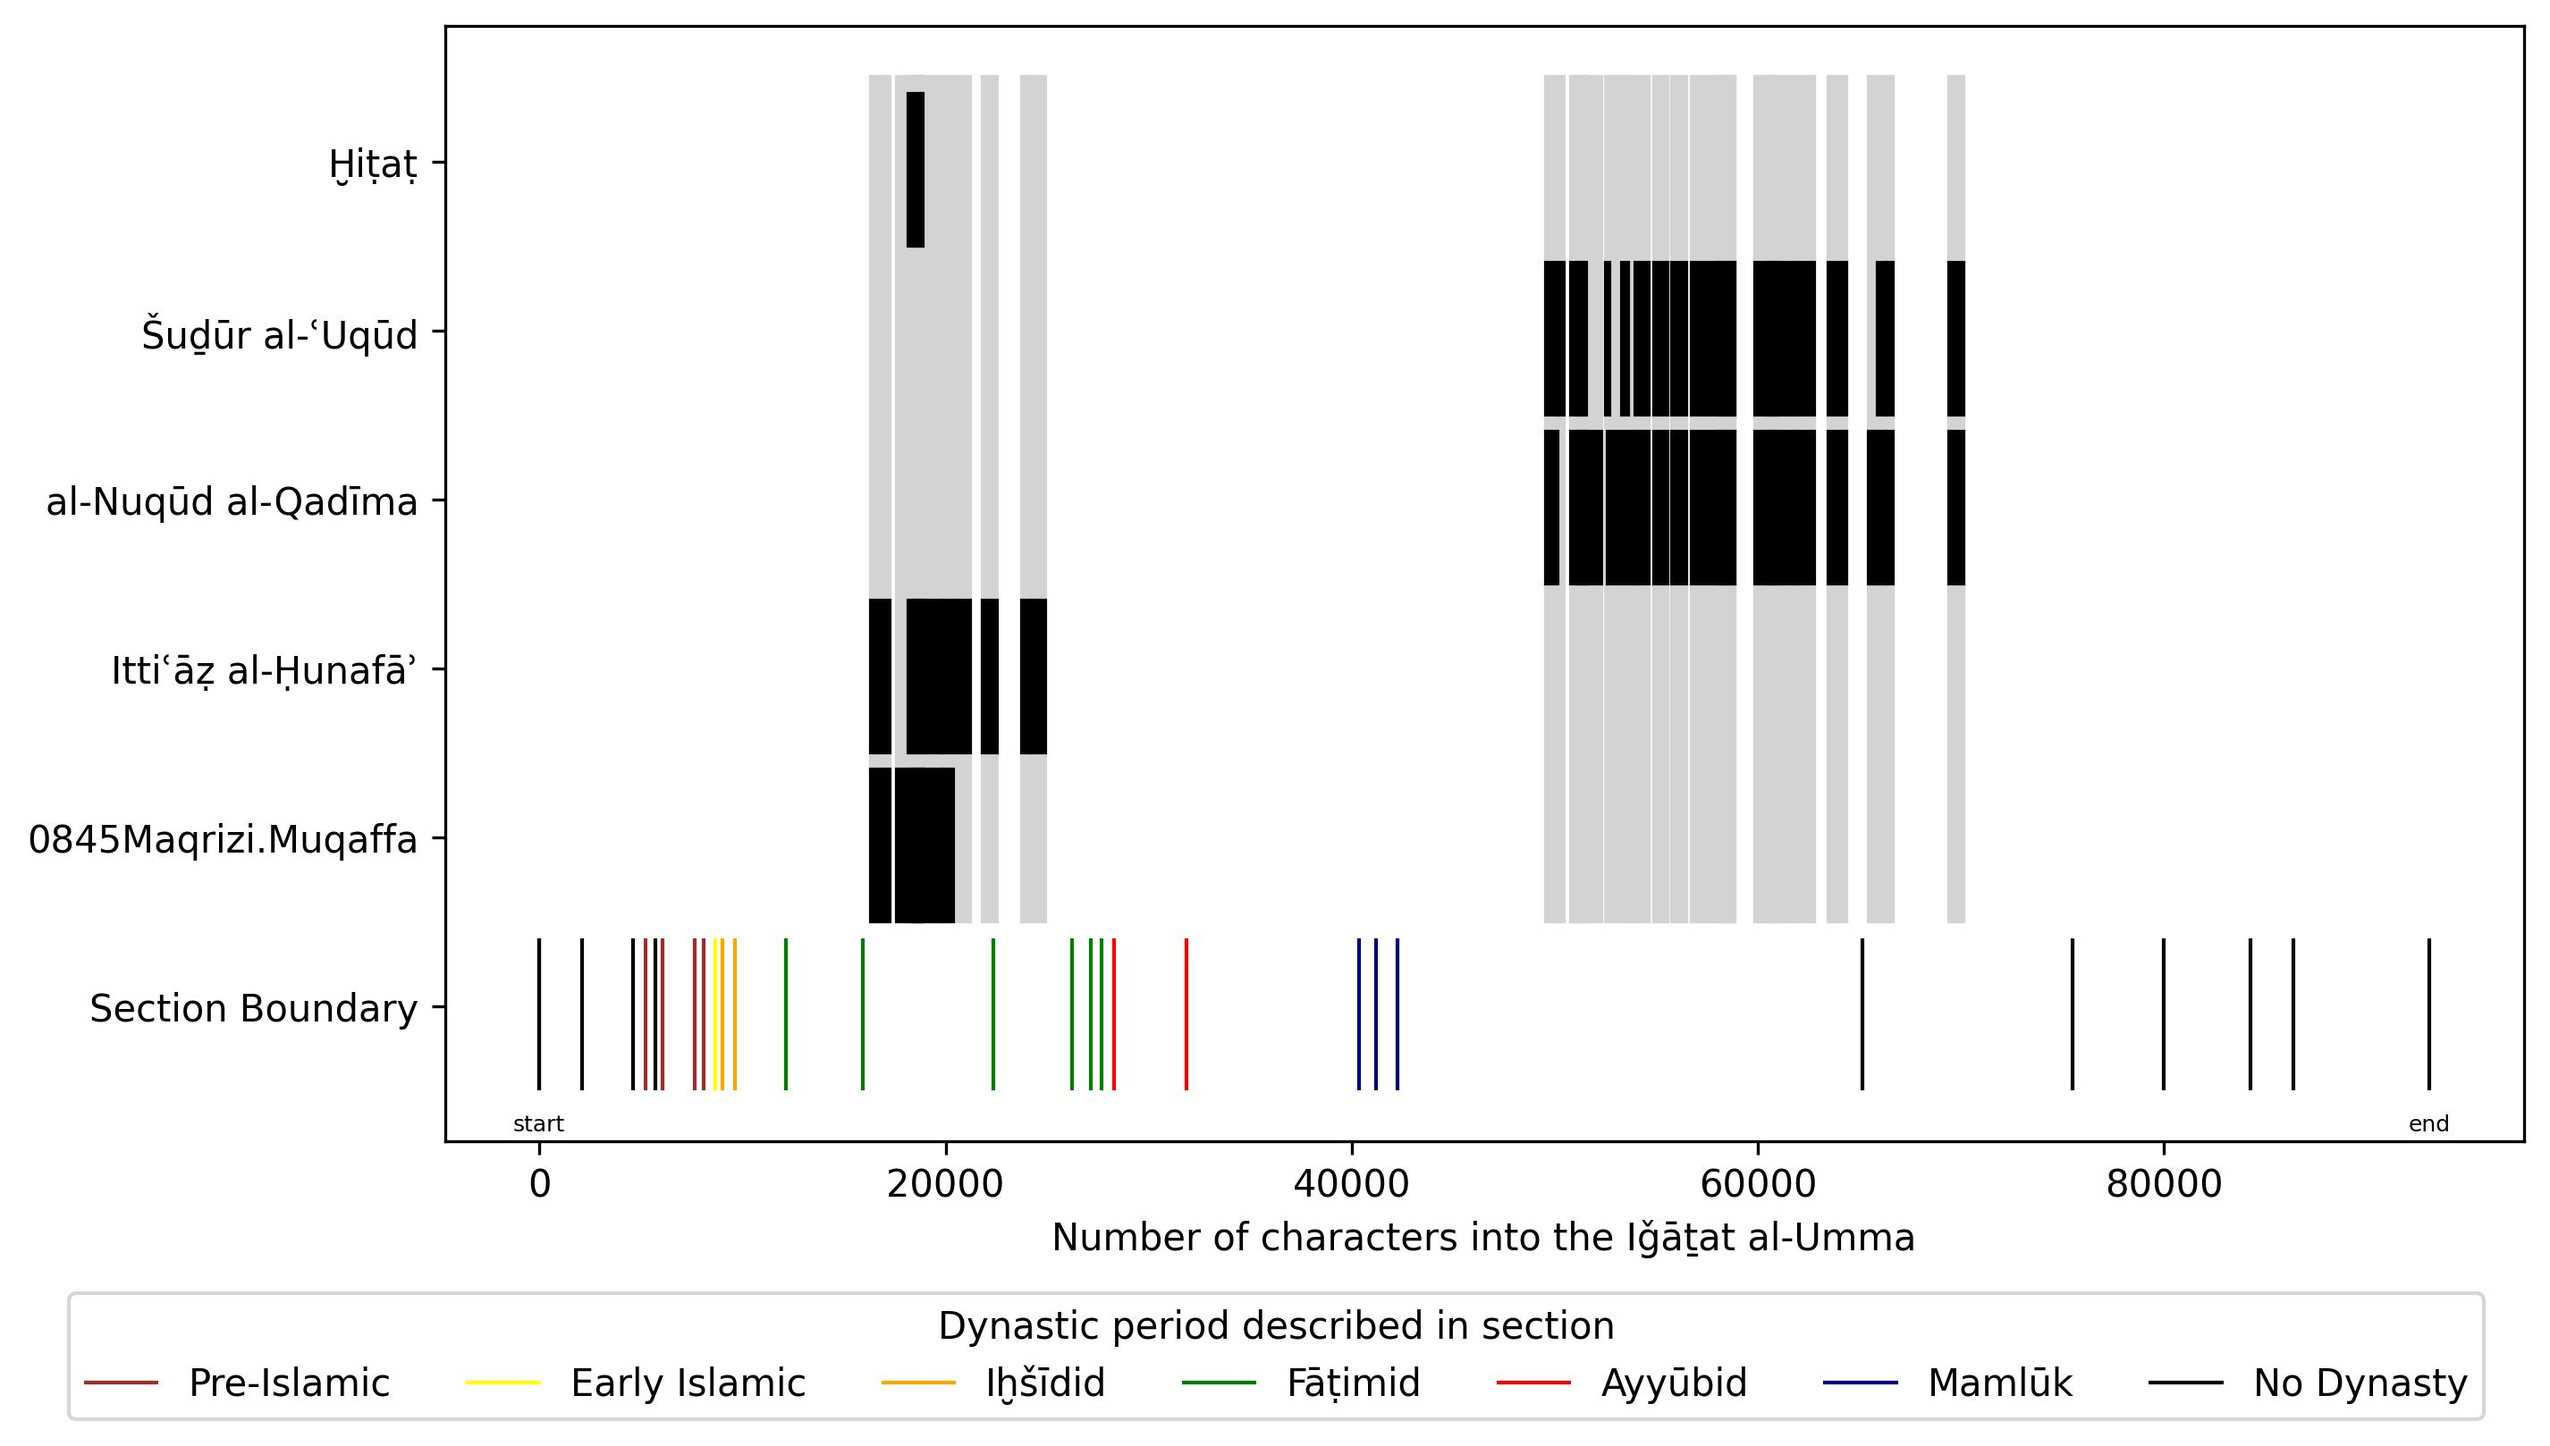
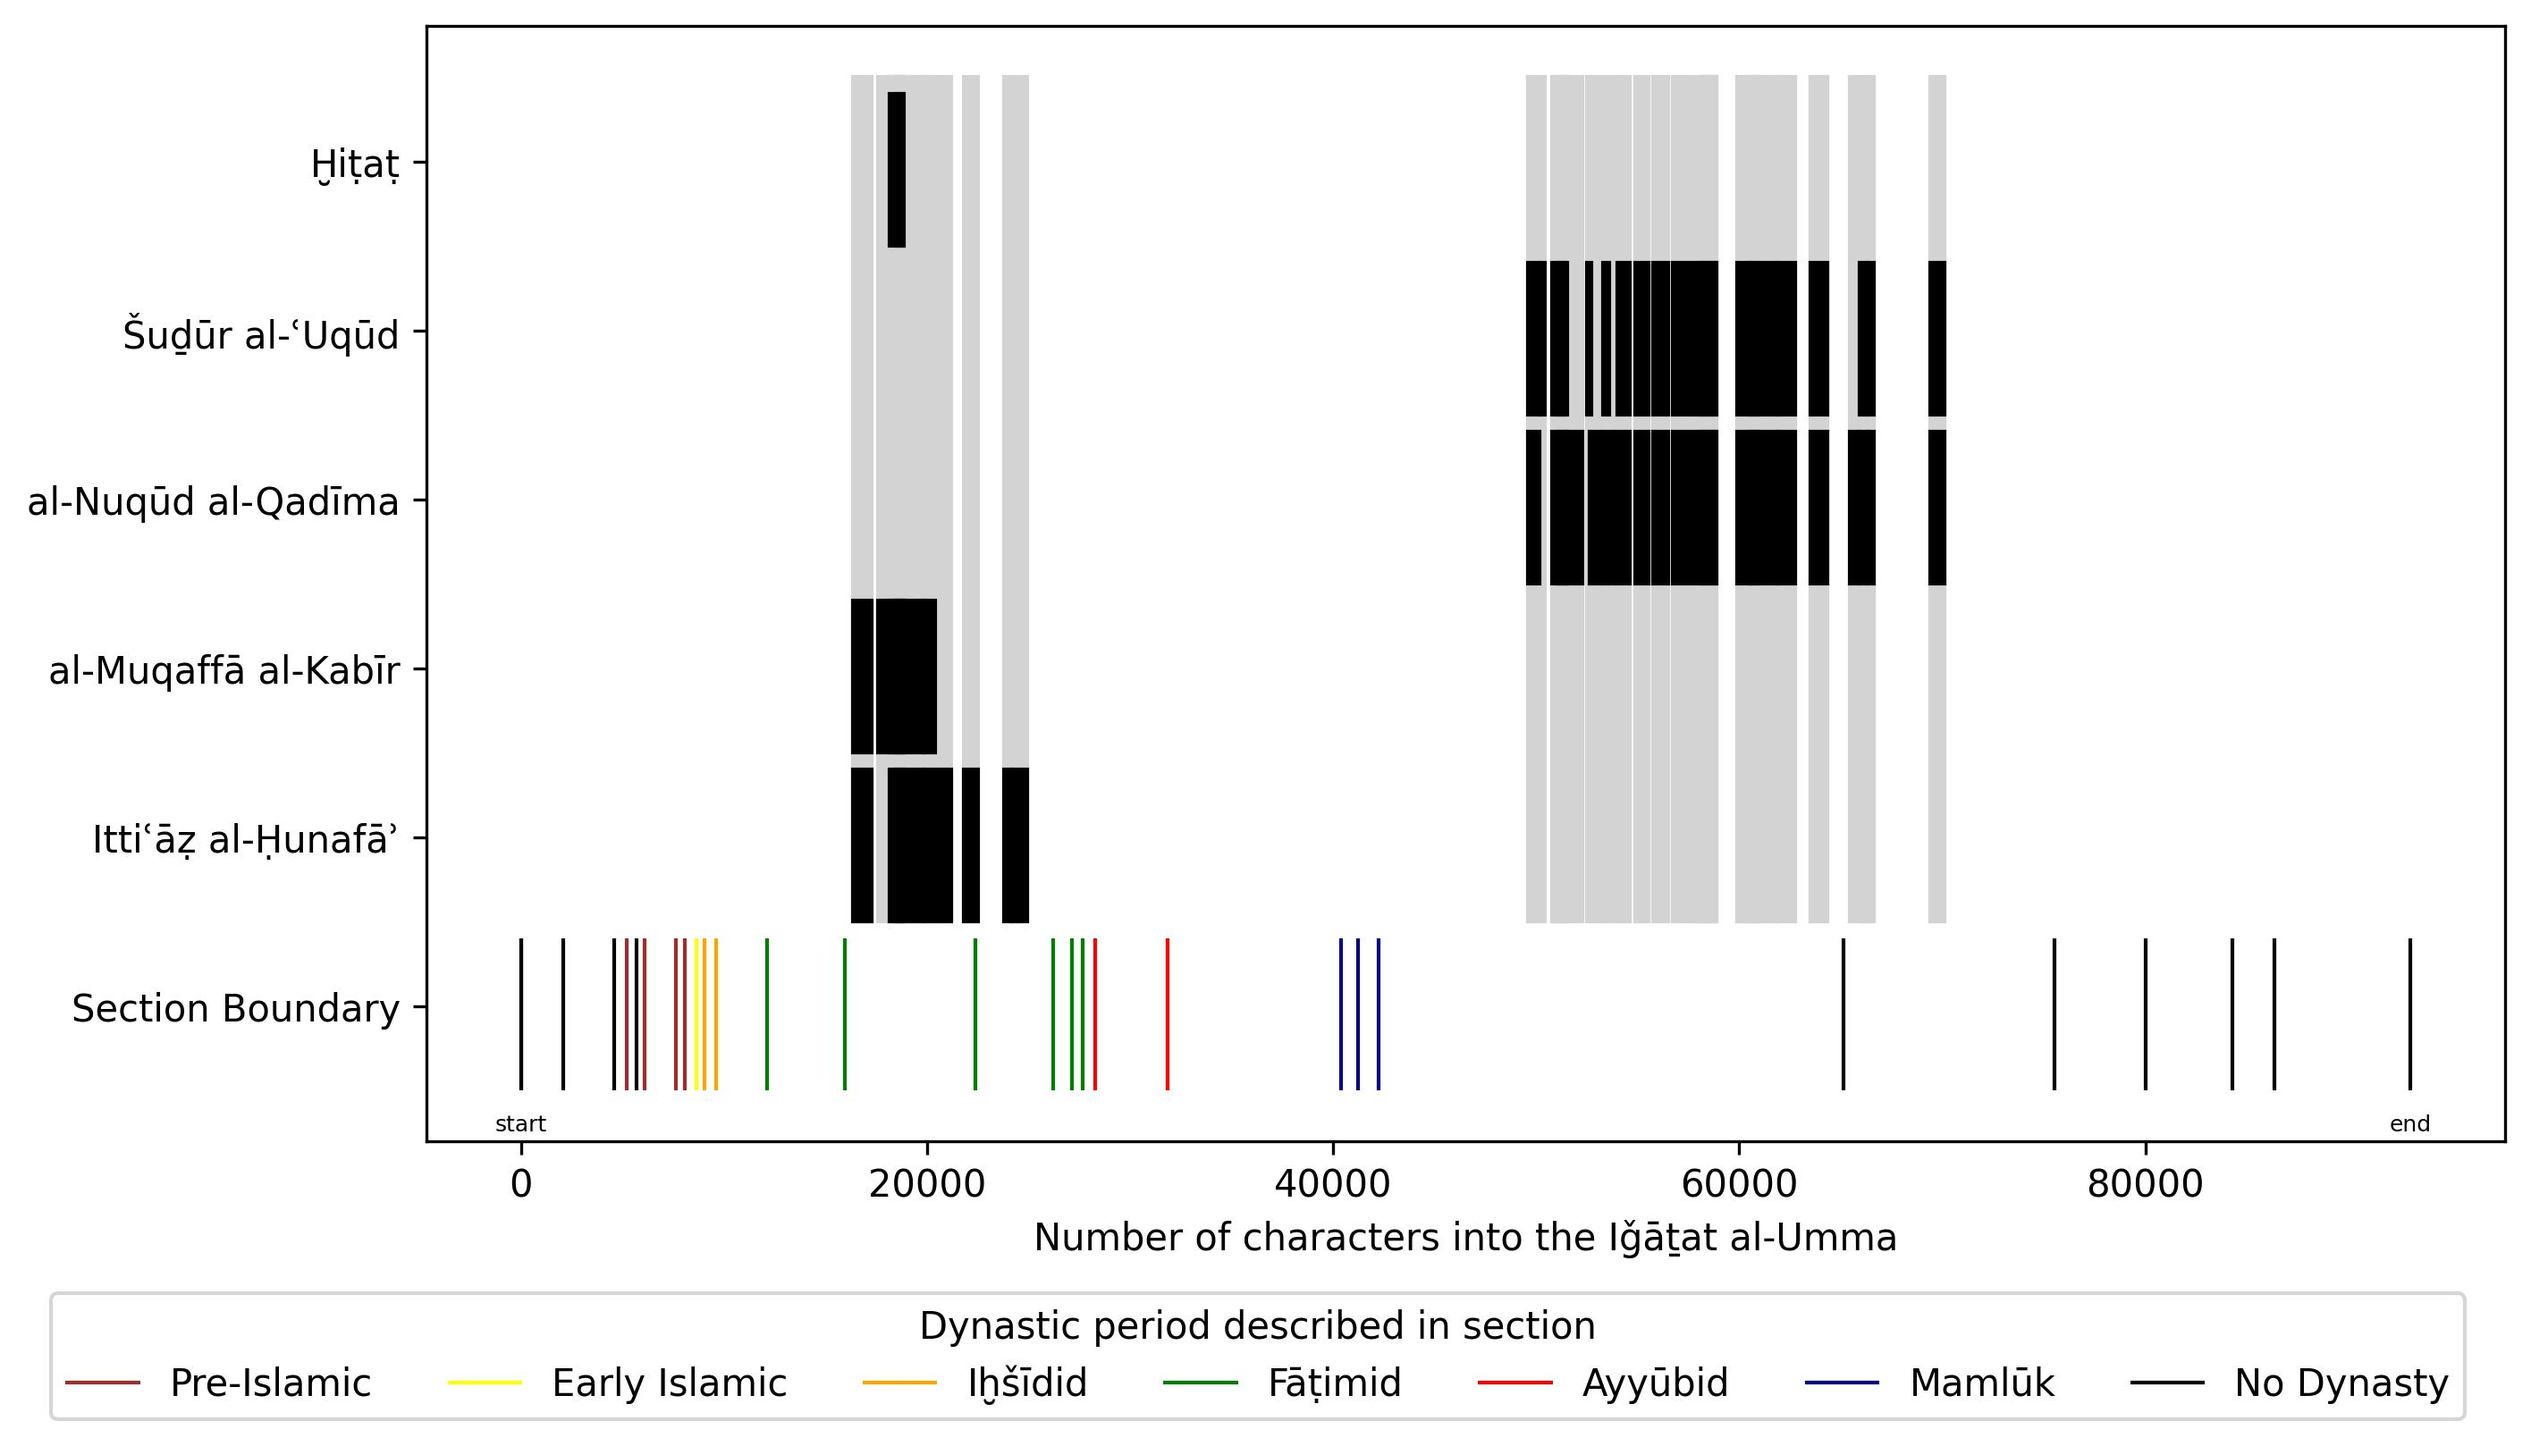
updates to article graph

diff --git a/map_clusters_to_text/scripts/graph/graph_reuse.py b/map_clusters_to_text/scripts/graph/graph_reuse.py
@@ -128,6 +128,7 @@ if __name__ == "__main__":
          "0845Maqrizi.Mawaciz": "Ḫiṭaṭ",
          "0845Maqrizi.Rasail": "Rasāʾil",
          "0845Maqrizi.ShudhurCuqud": "Šuḏūr al-ʿUqūd",
-         "0845Maqrizi.NuqudQadima" : "al-Nuqūd al-Qadīma"}
+         "0845Maqrizi.NuqudQadima" : "al-Nuqūd al-Qadīma",
+         "0845Maqrizi.Muqaffa": "al-Muqaffā al-Kabīr"}
 
     plot_reuse(reuse_map, graph_dir, maintext='Iǧāṯat al-Umma', section_map=section_map, top_colours = topics, label_conv=labels )
